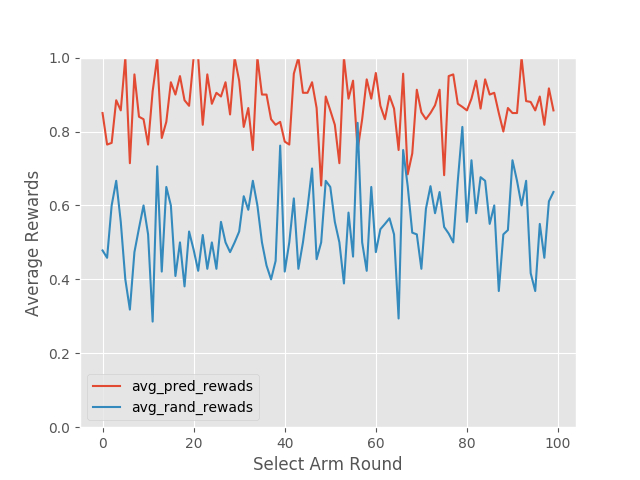
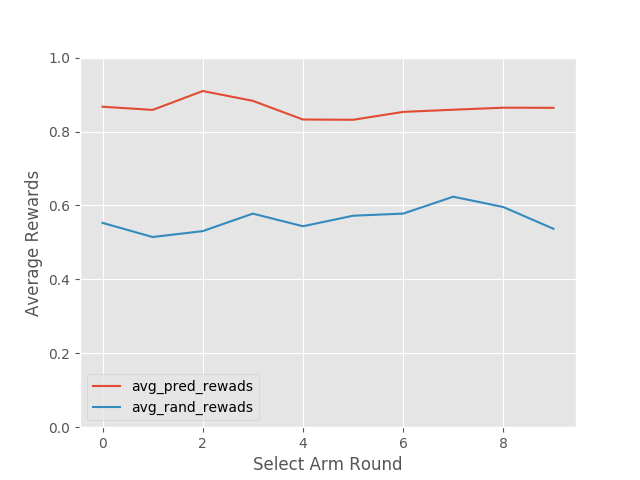
contextual の場合の雰囲気をクラスに書いた

diff --git a/bandit.py b/bandit.py
@@ -3,27 +3,46 @@ import numpy as np
 
 class BaseBandit():
 
-    def __init__(self, n_arm, context=None):
+    def __init__(self, n_arm):
         self.n_arm = n_arm
-        self.context = context
-
-        self.proba_rewards = np.zeros(n_arm)
-        self.is_context = True if context else False
+        self.selected_counts = np.zeros(n_arm)
+        self.each_arm_probability = np.zeros(n_arm)
 
 
 class EpsilonGreedy(BaseBandit):
 
-    def __init__(self, n_arm, context=None, epsilon=0.2):
-        super().__init__(n_arm, context=context)
+    def __init__(self, n_arm, epsilon=0.2):
+        super().__init__(n_arm)
         self.epsilon = epsilon
 
-    def update(self, data):
-        self.proba_rewards = np.array([data[(data[:, 0] == arm_id), 1].mean()
-                                       for arm_id in range(self.n_arm)])
+    def _set_estimators(self, model_class, attrs):
+        def f(x): return model_class(**attrs)
+        vf = np.vectorize(f)
+        estimators = vf(np.empty((self.n_arm)))
+        return estimators
 
+    def set_context(self, f_vector, estimator, attrs):
+        self.is_context = True
+        self.f_vector = f_vector
+        self.estimators = self._set_estimators(estimator, attrs)
+
+    def update(self, data):
+        self.each_arm_probability = np.array([data[(data[:, 0] == arm_id), 1].mean()
+                                              for arm_id in range(self.n_arm)])
+        # 文脈付きの場合
+        if self.is_context:
+            # 誰が何を引き、辺りかハズレかのデータを取得
+            feature_id = data[:, 0]
+            pulled_arm = data[:, 1]
+            rewards = data[:, 2]
+            # アームごとにestimator を学習
+            for arm_id in range(self.n_arm):
+                self.estimators[arm_id].fit(self.f_vector[feature_id], rewards)
+
+    # 文脈付きの場合の予測処理
     def select_arm(self, pull_count):
         # 最適なアームを選択
-        optimal_arm_id = self.proba_rewards.argmax()
+        optimal_arm_id = self.each_arm_probability.argmax()
         selected_arm = np.full(pull_count, fill_value=optimal_arm_id)
 
         # 探索フラグを指定、探索アームを割り当て

diff --git a/example/contextual_mautiArm_bandit.py b/example/contextual_mautiArm_bandit.py
@@ -61,11 +61,16 @@ def main():
     # Generate Data
     f_vector, rewards, weight = generate_data(n_arm, n_samples, is_contextual, feature_dim)
 
-    bandit_model = EpsilonGreedy(n_arm)
-
+    # Define Variables
     batch_size = 1000
     result_dict = {'avg_pred_rewads': [], 'avg_rand_rewads': []}
+    bandit_model = EpsilonGreedy(n_arm)
+    # bandit_model にコンテキストを与える
+    attr = {'solver': 'lbfgs'}
+    estimator = LogisticRegression
+    bandit_model.set_context(f_vector, estimator, attr)
 
+    # Train Model
     for start in range(0, n_samples, batch_size):
         end = np.minimum(start + batch_size, rewards.shape[0])
         print(f'Batch Progress Is {end} of {n_samples}')
